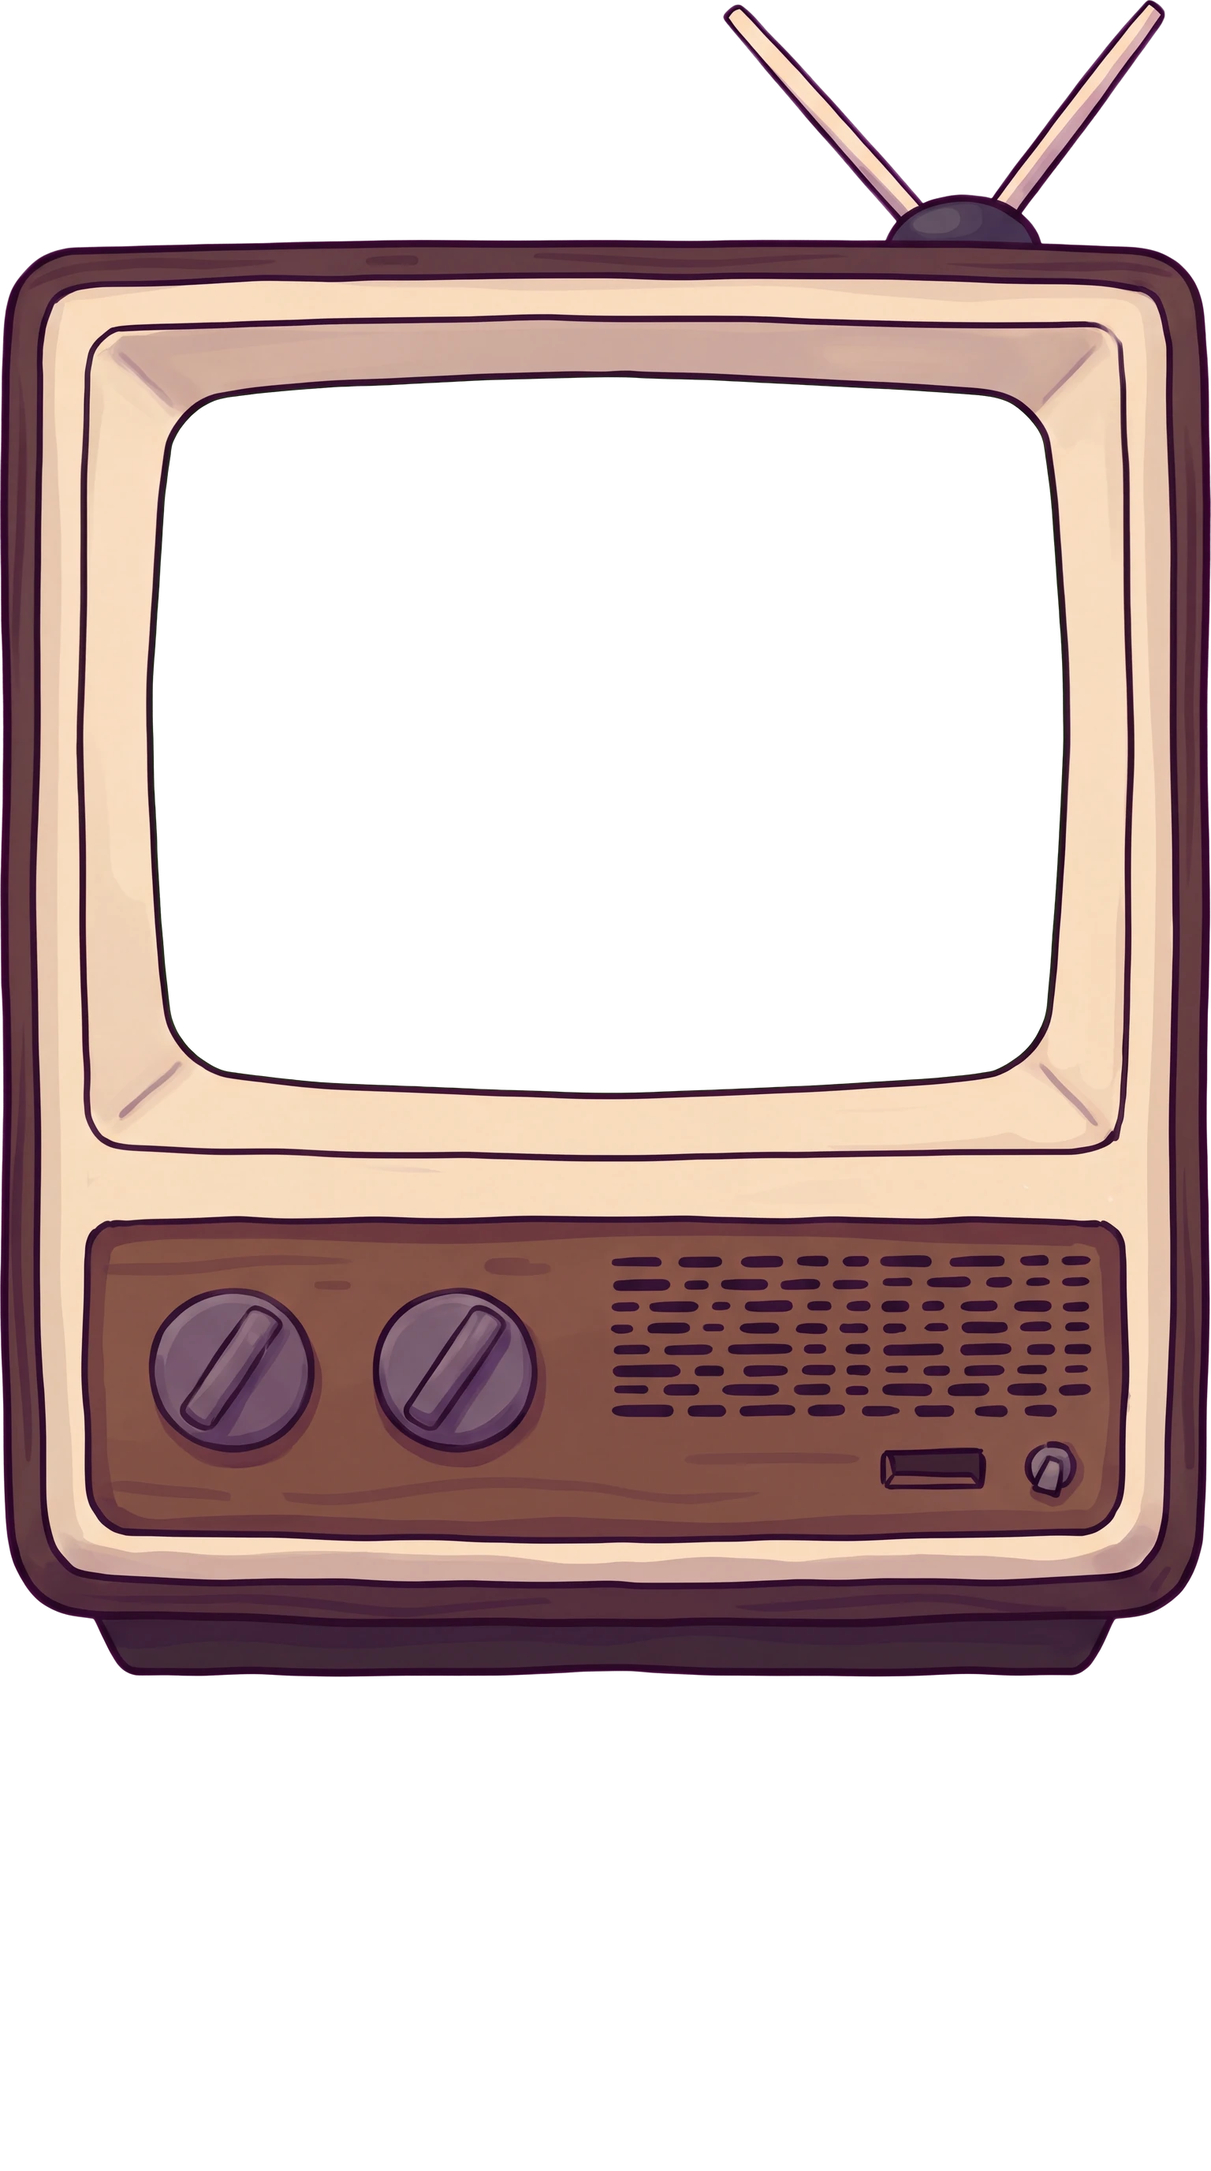
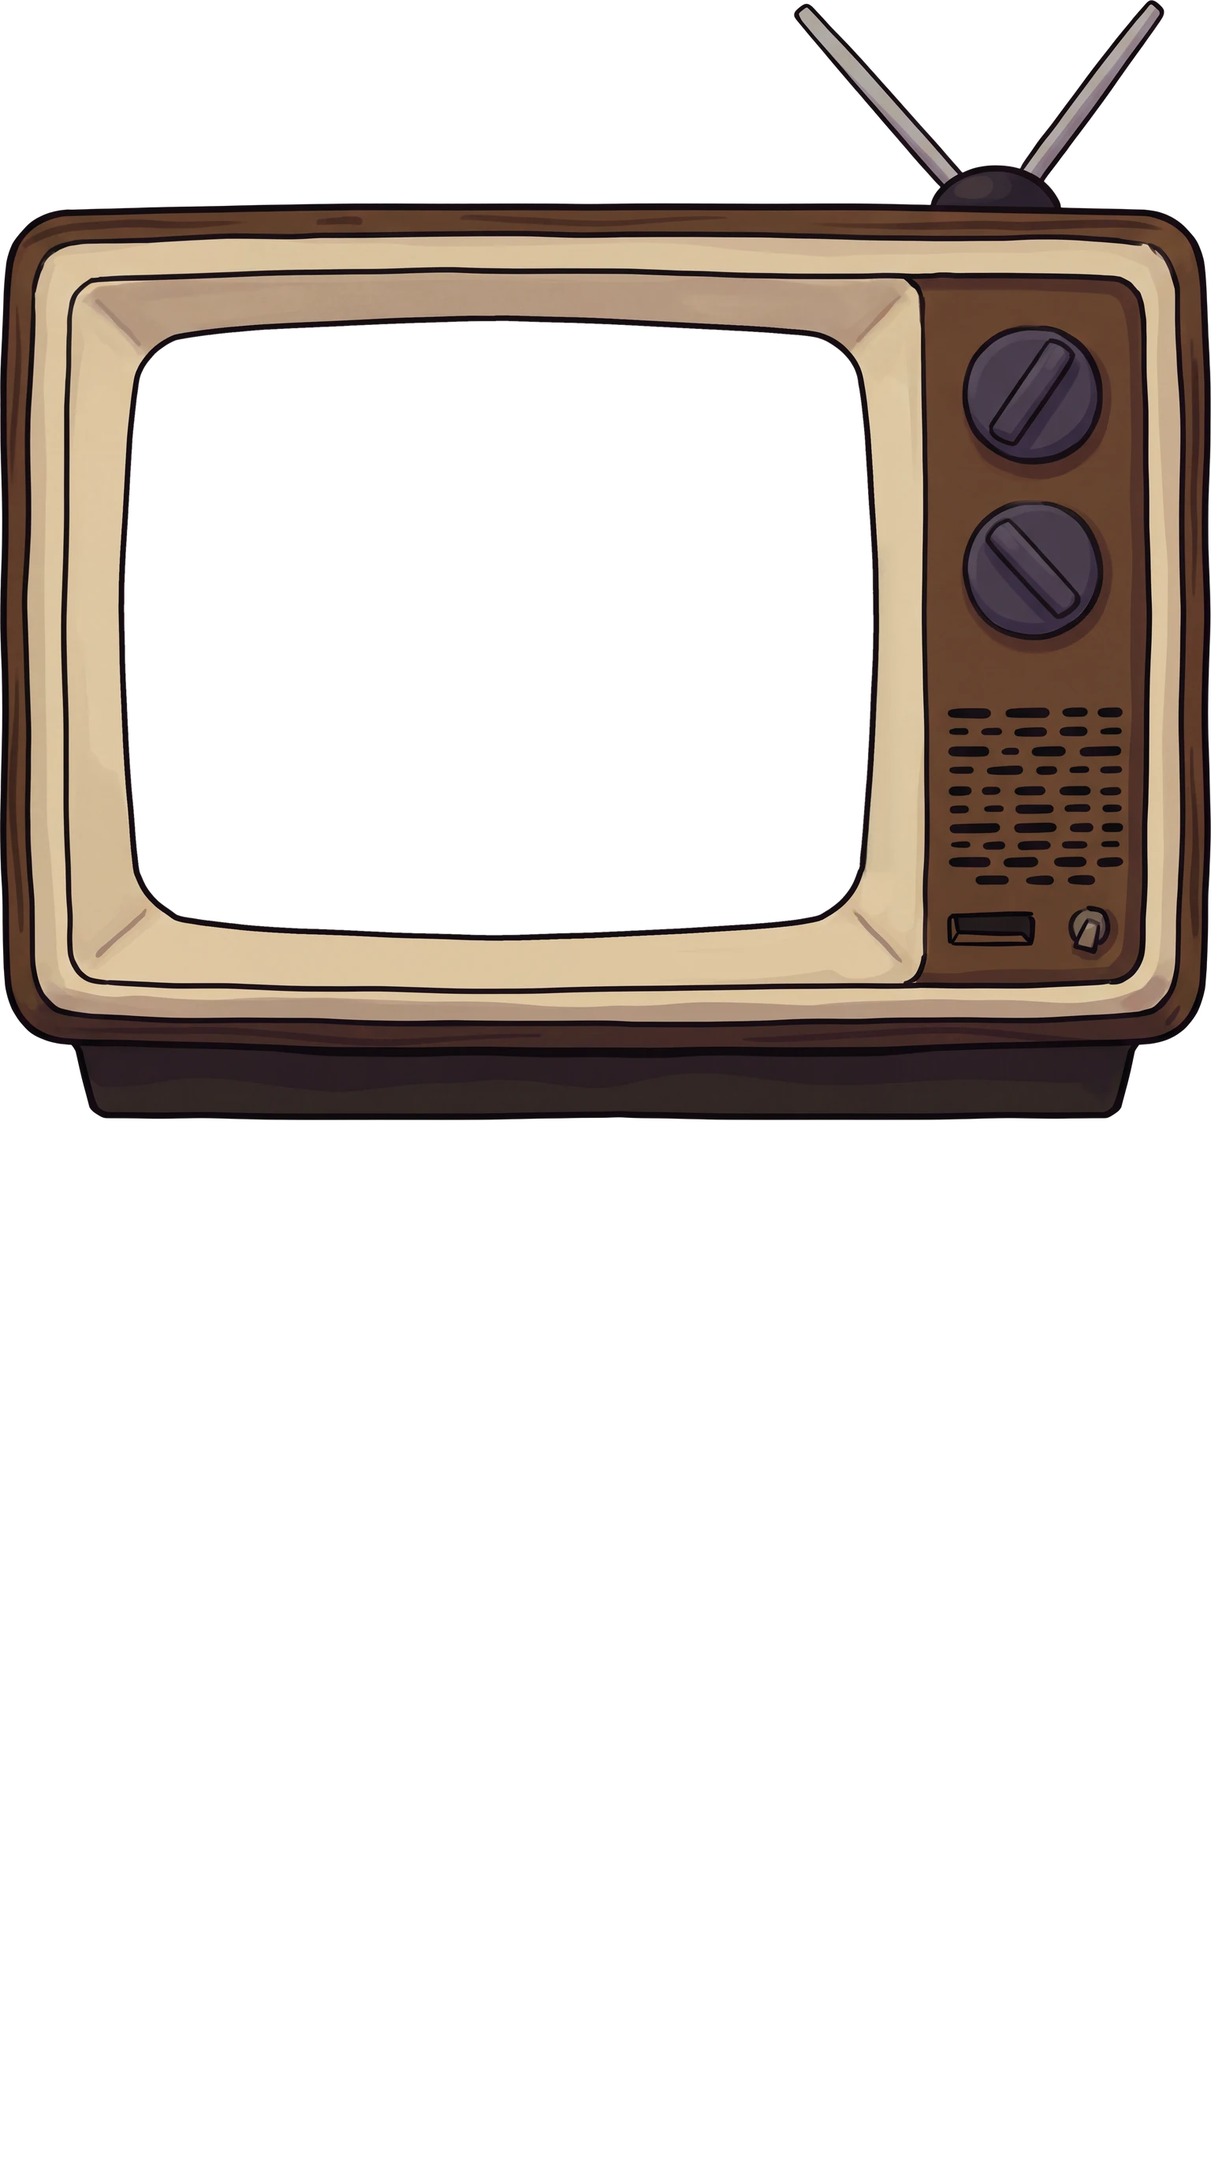
Tea room: the painted television is one set again, and the owner's
The upright picture was a second design (its controls under the glass), so it
is withdrawn: the phone's file is now the front picture itself at a phone's
size. Measured against the model's renders, the shape was already his; what had
drifted was the surface. By script, the same way in both paintings: the wood's
swirls painted out and its colour brought from plum to walnut, grey aerial
rods, dark knobs, one cream, the garden's own near-black ink, the front's
plinth lengthened to the model's height. The glass's right edge had the key
colour in it and a broken ink line: one unbroken line now runs round each hole.

Claude-Session: https://claude.ai/code/session_01H1qqxvg7NVfd4R6U8xEdiX

diff --git a/docs/tea/gen/shared.md b/docs/tea/gen/shared.md
@@ -7,6 +7,17 @@ painter's rounds, and the log of every generation request, kept or rejected (the
 final until he has seen them beside the model's render and the garden plate and said yes in his own words. His
 answer is recorded in the log's table.
 
+## Changed since the first version (commit `d5f4efdb`)
+
+File names are the same. A builder who read the first version of this page needs only this list.
+
+- `tv-face-p.webp` is a different picture: the front set itself, not a re-laid upright set. Its geometry is all
+  new (set 1536 x 1420 at the top of the canvas, glass box 157, 407, 1108, 1185).
+- `tv-face.webp` is 2752 x 2544, not 2752 x 2476: the plinth is 68 px taller, to the model's height. Nothing
+  above the plinth moved, so the glass's box is unchanged.
+- `tv.webp`: the same size and the same glass box. The glass's corners moved by up to 3 px.
+- All three sets have new colours (the table in the television's section) and no wood grain.
+
 ## What a `4k` generation is worth (measured, 2026-11-12)
 
 The same prompt (the screen plate, below as S1 and S2) was sent twice to Higgsfield `generate_image`, model id
@@ -37,9 +48,9 @@ costs twice a `2k` one, and two requests never return the same picture, so a com
 | `washi.webp` | 512, 512 | 6,320 | no | the paper tile. Tiles both ways. Its mean colour is the paper colour `#F1E6D0` |
 | `screen.webp` | 1776, 2000 | 239,218 | yes | one sliding screen: cedar frame and lattice opaque, the paper see-through |
 | `sheet-shadow.webp` | 384, 384 | 4,284 | yes | the one shadow under a sheet or a slip, as a nine-slice |
-| `tv.webp` | 2254, 2048 | 181,734 | yes | the little television, three-quarter view, cut out, its glass a hole |
-| `tv-face.webp` | 2752, 2476 | 197,010 | yes | the same set seen from the front, whole, cut out, its glass a hole |
-| `tv-face-p.webp` | 1536, 2752 | 144,766 | yes | the same set laid out upright for a phone, on a 9:16 canvas |
+| `tv.webp` | 2254, 2048 | 147,394 | yes | the little television, three-quarter view, cut out, its glass a hole |
+| `tv-face.webp` | 2752, 2544 | 178,590 | yes | the same set seen from the front, whole, cut out, its glass a hole |
+| `tv-face-p.webp` | 1536, 2752 | 93,404 | yes | the same front picture at a phone's size, on a 9:16 canvas |
 | `shadow-example.webp` | 1620, 720 | 31,256 | yes | the worked example of a screen shadow: a lantern and a kettle |
 
 No file is video or audio. The largest is under 1 MiB.
@@ -130,25 +141,68 @@ still works: the corners do not overlap until it is under 1 px.
 
 ## The television: tv.webp, tv-face.webp, tv-face-p.webp
 
-One set, painted three times from the existing model (`public/tea/hero/tv_rig.glb`): the wooden case, the cream
-frame round the whole front, the two knobs one above the other, the speaker grille, the slot and the small
-switch, the dark plinth, the rabbit-ear aerial at the right of the top. Every picture is a cut-out: alpha 0
-outside the set, and the glass is a hole, so whatever stands behind the picture shows through it. The alpha and
-the hole were cut from the painted picture itself, not from the model's mask.
+One set, the owner's: the little television of the live page, painted from its model
+(`public/tea/hero/tv_rig.glb`). The walnut case, the cream frame round the whole front, the two knobs one above
+the other, the speaker grille, the slot and the small switch, the dark plinth, the rabbit-ear aerial at the
+right of the top. Two paintings, three files: `tv.webp` is the three-quarter view, `tv-face.webp` is the same
+set seen front on, and `tv-face-p.webp` is that same front picture, whole, at a phone's size on an upright
+canvas. Every picture is a cut-out: alpha 0 outside the set, and the glass is a hole, so whatever stands behind
+the picture shows through it. The alpha and the hole were cut from the painted picture itself, not from the
+model's mask.
+
+**How close it is to the model, measured.** Each file's outline was laid over the model's own render from the
+same side, both boxes fitted to one another:
+
+| | Three-quarter | Front |
+|---|---|---|
+| Outline over the model's outline (1 is the same shape) | 0.994 | 0.986 |
+| Whole set, width to height (model, painting) | 1.104, 1.102 | 1.083, 1.082 |
+| Body without the aerial, width to height (model, painting) | 1.372, 1.37 | 1.315, 1.325 |
+| Aerial's height as a share of the body's (model, painting) | 0.183, 0.183 | 0.214, 0.223 |
+| Glass's width as a share of the body's (model, painting) | 0.515, 0.512 | 0.623, 0.619 |
+| Glass, width to height (model, painting) | 1.086, 1.091 | 1.164, 1.221 |
+| Plinth's height as a share of the set's width (model, painting) | | 0.0715, 0.0712 |
+
+The front painting came back with its plinth a third too low. It was lengthened by script to the model's
+height (89 rows put into the plinth's plain middle; its two ink lines are as painted). The front glass is 5%
+wider for its height than the model's: left as painted.
+
+**Its colours are one table, the same in every file** (the rounds say why each was moved). Each is the median
+of that material in the file, in the night key the set has in the garden:
+
+| Material | Colour |
+|---|---|
+| Wood in the light (the top, the rim) | `rgb(98, 64, 44)` |
+| Wood in shade (the side, the plinth) | `rgb(62, 39, 43)` |
+| Control panel | `rgb(103, 68, 47)` |
+| Cream frame | `rgb(218, 196, 160)` |
+| Knobs | `rgb(74, 62, 78)` |
+| Aerial rods, and their base | `rgb(174, 165, 156)`, `rgb(50, 40, 50)` |
+| Ink line | `rgb(21, 14, 18)` (the garden plate's is `rgb(16, 13, 14)`) |
+
+The stage has no filter and no blend mode, so a chapter that needs the set in another light (the cold room,
+the three gardens of the fall) makes its own graded copy of `tv-face.webp` by script and keeps the geometry
+below unchanged.
 
 All numbers are pixels of the file, `x, y` from its top left.
 
 | | `tv.webp` | `tv-face.webp` | `tv-face-p.webp` |
 |---|---|---|---|
-| View | three-quarter, the hero's own angle | front on, no perspective | front on, re-laid upright |
-| Canvas | 2254, 2048 | 2752, 2476 | 1536, 2752 |
-| The set fills | the whole canvas | the whole canvas | the full width, from the top down to y = 2125. Transparent below |
-| Top of the case (under the aerial) | y = 302 | y = 464 | y = 306 |
-| Glass: its box `x0, y0, x1, y1` | 205, 698, 1359, 1756 | 282, 729, 1985, 2124 | 194, 478, 1349, 1385 |
-| Glass: width x height | 1154 x 1058 | 1703 x 1395 | 1155 x 907 |
-| Glass: its four corners, clockwise from top left | (240, 715) (1296, 801) (1340, 1710) (321, 1661) | (354, 801) (1908, 795) (1913, 2040) (347, 2033) | (244, 525) (1302, 527) (1305, 1325) (236, 1324) |
-| Largest upright rectangle wholly inside the glass | 316, 799, 1248, 1655 | 369, 800, 1898, 2053 | 252, 523, 1291, 1340 |
-| Made from the master at | 0.70 of its pixels | 0.76 | 0.48 |
+| View | three-quarter, the hero's own angle | front on, no perspective | the same front picture, smaller |
+| Canvas | 2254, 2048 | 2752, 2544 | 1536, 2752 |
+| The set fills | the whole canvas | the whole canvas | the full width, from the top down to y = 1420. Transparent below |
+| Top of the case (under the aerial) | y = 302 | y = 464 | y = 259 |
+| Glass: its box `x0, y0, x1, y1` | 205, 698, 1359, 1756 | 282, 729, 1985, 2124 | 157, 407, 1108, 1185 |
+| Glass: width x height | 1154 x 1058 | 1703 x 1395 | 951 x 778 |
+| Glass: its four corners, clockwise from top left | (237, 717) (1294, 799) (1341, 1709) (321, 1661) | (355, 800) (1907, 794) (1915, 2038) (347, 2033) | (196, 448) (1064, 443) (1068, 1138) (192, 1133) |
+| Largest upright rectangle wholly inside the glass | 316, 799, 1248, 1655 | 368, 799, 1899, 2054 | 205, 446, 1060, 1146 |
+| Ink line round the glass, at its thinnest | 10 px | 11 px | 6 px |
+| Made from its master at | 0.70 of its pixels | 0.764 | 0.426 |
+
+**The glass is a hole with a painted edge.** One unbroken ink line runs round it on the set's side, drawn by
+script exactly on the hole's boundary, so the hole's soft edge shows nothing but ink over any picture, light
+or dark. The script that writes the files refuses a file with a gap in that line, with anything but ink in the
+hole's soft edge, or (for `tv-face.webp`) with a glass under 1700 px wide.
 
 **How to put a picture in the glass.** Stand it behind the set, covering the glass's box. The set's own frame
 masks it to the glass's rounded shape. On `tv.webp` the glass is turned 14 degrees, so a flat picture behind it
@@ -158,25 +212,34 @@ the picture's corners to the four corners given.
 **How the faces differ from the brief's numbers, and why.** The brief asked for the front view on a 16:9 canvas
 with a glass at least 1700 px wide. The model's own front, measured from a front-on render, is 1.08 times as
 wide as it is tall with its aerial, its glass is 1.16 times as wide as tall, and the glass is 62% of the set's
-width. A whole set with a 1700 px glass is therefore about 2750 x 2500, and cannot be 1536 tall unless the set
+width. A whole set with a 1700 px glass is therefore about 2750 x 2550, and cannot be 1536 tall unless the set
 is redrawn wide, which would be a new set. So:
 
-- `tv-face.webp` keeps the set and grows the canvas: 2752 wide as asked, 2476 tall, glass
+- `tv-face.webp` keeps the set and grows the canvas: 2752 wide as asked, 2544 tall, glass
   1703 px wide. The glass is taller than 16:9, so when its width matches a 16:9 window its
   height more than covers it. A 16:9 episode stood in the glass at the glass's full width is letterboxed in the
   tube at rest and fills the window exactly when the glass does.
-- To reach a 1700 px glass the master was written at 0.76 of its pixels, a hair over the 0.75 ruling above. Its
-  ink edge measures the garden plate's own figure (the rounds give the number).
-- `tv-face-p.webp` is the one sanctioned re-lay: the glass across the width with the two knobs in a row under
-  it. The canvas is 9:16 as asked and holds the whole set with its aerial at the top. For the pose with the
-  glass in the top 42% of an upright frame, draw the file at the frame's width with its top
-  306 of its 2752 px above the frame's top (the aerial is then out of the frame):
-  the glass lies between 6% and 39% of the frame's height.
+- To reach a 1700 px glass the master was written at 0.764 of its pixels, a hair over the 0.75 ruling above.
+  Its ink edge measures the garden plate's own figure (the rounds give the number).
+- `tv-face-p.webp` is **not** a second design. The brief's phone layout (3.3) describes the set with "its knobs
+  in a row under" the glass, which is look A's own upright set, and the first version painted one. Beside the
+  other two it was a different television, so it was withdrawn. The file is now the front picture itself, at
+  1536 px wide, at the top of the 9:16 canvas the brief asks for. What that costs on a phone is the glass's
+  width: see the poses below.
+
+**The phone's poses** (`set-above`), for a frame `W` wide. Both keep the glass in the top 42% at 390 x 844 and
+430 x 932.
+
+| Pose | Draw the file | The glass is | On 390 x 844 |
+|---|---|---|---|
+| Whole set | `W` wide, its top at the frame's top | 62% of `W` wide, from 26.5% to 77% of `W` down | 241 px wide, from y = 103 to 301 (12% to 36%) |
+| Closer | to be measured in the phone round | | |
 
 **Sharpness limits these give** (1.25 CSS px to a file px): the glass of `tv-face.webp` may be drawn up to
-1703 x 1.25 CSS px wide, which covers a 1920 px window and not a 2560 px one. Drawn the
-width of a 390 px phone, `tv-face-p.webp` has 3.9 file px to a CSS px, and its glass
-(1155 px) may grow to 1155 x 1.25 CSS px wide.
+2129 CSS px wide, which covers a 1920 px window and not a 2560 px one: there the glass stops at 2129 px and the
+set's own bezel is seen round it, 215 px each side. Drawn the width of a 390 px phone, `tv-face-p.webp` has 3.9
+file px to a CSS px. Its glass is 951 x 778, so it may grow
+to 972 CSS px tall: enough to cover an 844 px screen (at 1.08) and a 932 px one (at 1.20), and no taller.
 
 ## The screens' shadows: the rule, the template, a worked example
 
@@ -292,6 +355,38 @@ the repo. A different crop each round.
 Seven pictures, end to end, before any polish: the tile drawn by script, the screen from the `4k` master with
 its paper made see-through, the sheet shadow, the set painted three times, one screen shadow from the template.
 
+### The art director's read of the first version, and what was done
+
+The first version was read by the person who briefed the painter. Five things, each checked against the files
+before anything was changed. The work was then taken over by a second painter (the first was cut off by a
+machine restart). The paper, the screens and the shadow are answered in the rounds below. The television first:
+
+1. **"The three television pictures are not one set."** True. The three-quarter and the front pictures agreed.
+   The upright one was another television: its controls in a strip under the glass, a taller cabinet. It was
+   withdrawn. `tv-face-p.webp` is now the front picture itself at a phone's size, so there are two paintings
+   and one set. This leaves the brief's phone layout (3.3, "its knobs in a row under it") unmet on purpose:
+   the same set seen front on has its knobs beside the glass.
+2. **"Is it the owner's television?"** Measured against the model's own renders from the same two sides. The
+   shape was already his: the three-quarter outline lies over the model's at 0.994, with the same aerial, the
+   same glass, the same proportions. The front's cabinet matched too, but its plinth was a third too low
+   (0.047 of the set's width where the model has 0.072): lengthened by script. What had drifted was the
+   surface, and all of it was brought back by script, the same way in both paintings, with no new generation:
+   - the wood was plum-rose with swirls and knots, where the model is plain walnut: the strokes are painted
+     out (the garden plate puts no strokes inside its shapes either) and the wood is a dark warm brown, with
+     plum only where it is in shade;
+   - the aerial's rods were cream on a large blue base, where the model's are grey metal on a small dark one:
+     pale grey rods, a dark base;
+   - the knobs were a light grey-violet, where the model's are dark: darkened;
+   - the two creams did not agree (`228, 205, 165` and `244, 222, 190`): one cream now, and no longer a lit
+     white, because the set stands in the dark;
+   - the ink line was purple (`32, 12, 31`) where the garden's is near black (`16, 13, 14`), and the outline
+     kept a rim of the magenta ground it was cut from: the ink is `21, 14, 18` and the rim is gone.
+3. **"The glass."** `tv-face.webp`'s glass measures 1703 px of 2752. The first version's hole had a fault the
+   sheet did not show: along the glass's right edge the key colour had run into the paint, so the ink line was
+   green and thin there, broken for about 250 px near the lower corner, and the cream beside it had a green
+   cast 60 px wide. The cast is taken out of the cream, and one unbroken ink line is now drawn round the whole
+   hole (at its thinnest 11 px on `tv-face.webp`). The build refuses a file with a gap in that line.
+
 ## Generation log
 
 Tool: Higgsfield `generate_image`, model id `nano_banana_pro` (every job reports its engine as `nano_banana_2`).
@@ -314,14 +409,16 @@ written below by these names:
 | T3 | the set, front, to match T1 | style, T1, model front | 1:1, `4k` | nothing: the service's content filter stopped the job | 0 | no | |
 | T4 | T3 again, the same prompt | style, T1, model front | 1:1, `4k` | 4096 x 4096 | 4 | yes: `tv-face.webp` | waiting |
 | T5 | the set, upright, for a phone | style, T4 | 4:5, `4k` | 3712 x 4608 | 4 | no: the control strip came out grey-violet, not brown | |
-| T6 | the same, the strip's colour spelled out | style, T4 | 4:5, `4k` | 3712 x 4608 | 4 | yes: `tv-face-p.webp` | waiting |
+| T6 | the same, the strip's colour spelled out | style, T4 | 4:5, `4k` | 3712 x 4608 | 4 | no: kept at first, then withdrawn. A set with its controls under the glass is a second design, not the owner's set | |
 
-Tries: the screen 2 of 8 (one was the measurement), the three-quarter set 1, the front set 3 (one stopped by
-the filter), the upright set 2.
+Tries, of eight a plate: the screen 2 (one was the measurement), the three-quarter set 1, the front set 3 (one
+stopped by the filter), the upright set 2 (both withdrawn: the upright file is made from the front set).
 
 Not generated, made by script: the paper tile (drawn: clouds and long fibres, seeded), the sheet shadow (two
 blurred squares), the screen's see-through paper and its shortened board, every cut-out's alpha and glass hole,
-the example shadow (from look B's lantern and table), every resize.
+the sets' colours, the painting-out of their wood grain, the ink line round each glass, the front set's longer
+plinth, `tv-face-p.webp` (the front picture, smaller), the example shadow (from look B's lantern and table),
+every resize.
 
 ### S1 and S2: the screen (jobs `7602002a-178b-4b1e-a751-a91128bd806f` and `2be226db-1603-4c3c-b77e-5cfbb2db6bae`)
 
@@ -527,4 +624,6 @@ out and the strip is not the brown panel of T1 and T4.
 > No people, no animals, no characters, no text, no lettering, no numbers, no brand, no logo, no signature, no
 > watermark, no border.
 
-Kept. A brown strip, the two knobs side by side, the grille, the slot and the switch.
+Kept in the first version: a brown strip, the two knobs side by side, the grille, the slot and the switch. Withdrawn
+afterwards: laid beside T1 and T4 it is another television (its controls in a strip under the glass, a taller
+cabinet), and the set must be one set. `tv-face-p.webp` is now made from T4.
